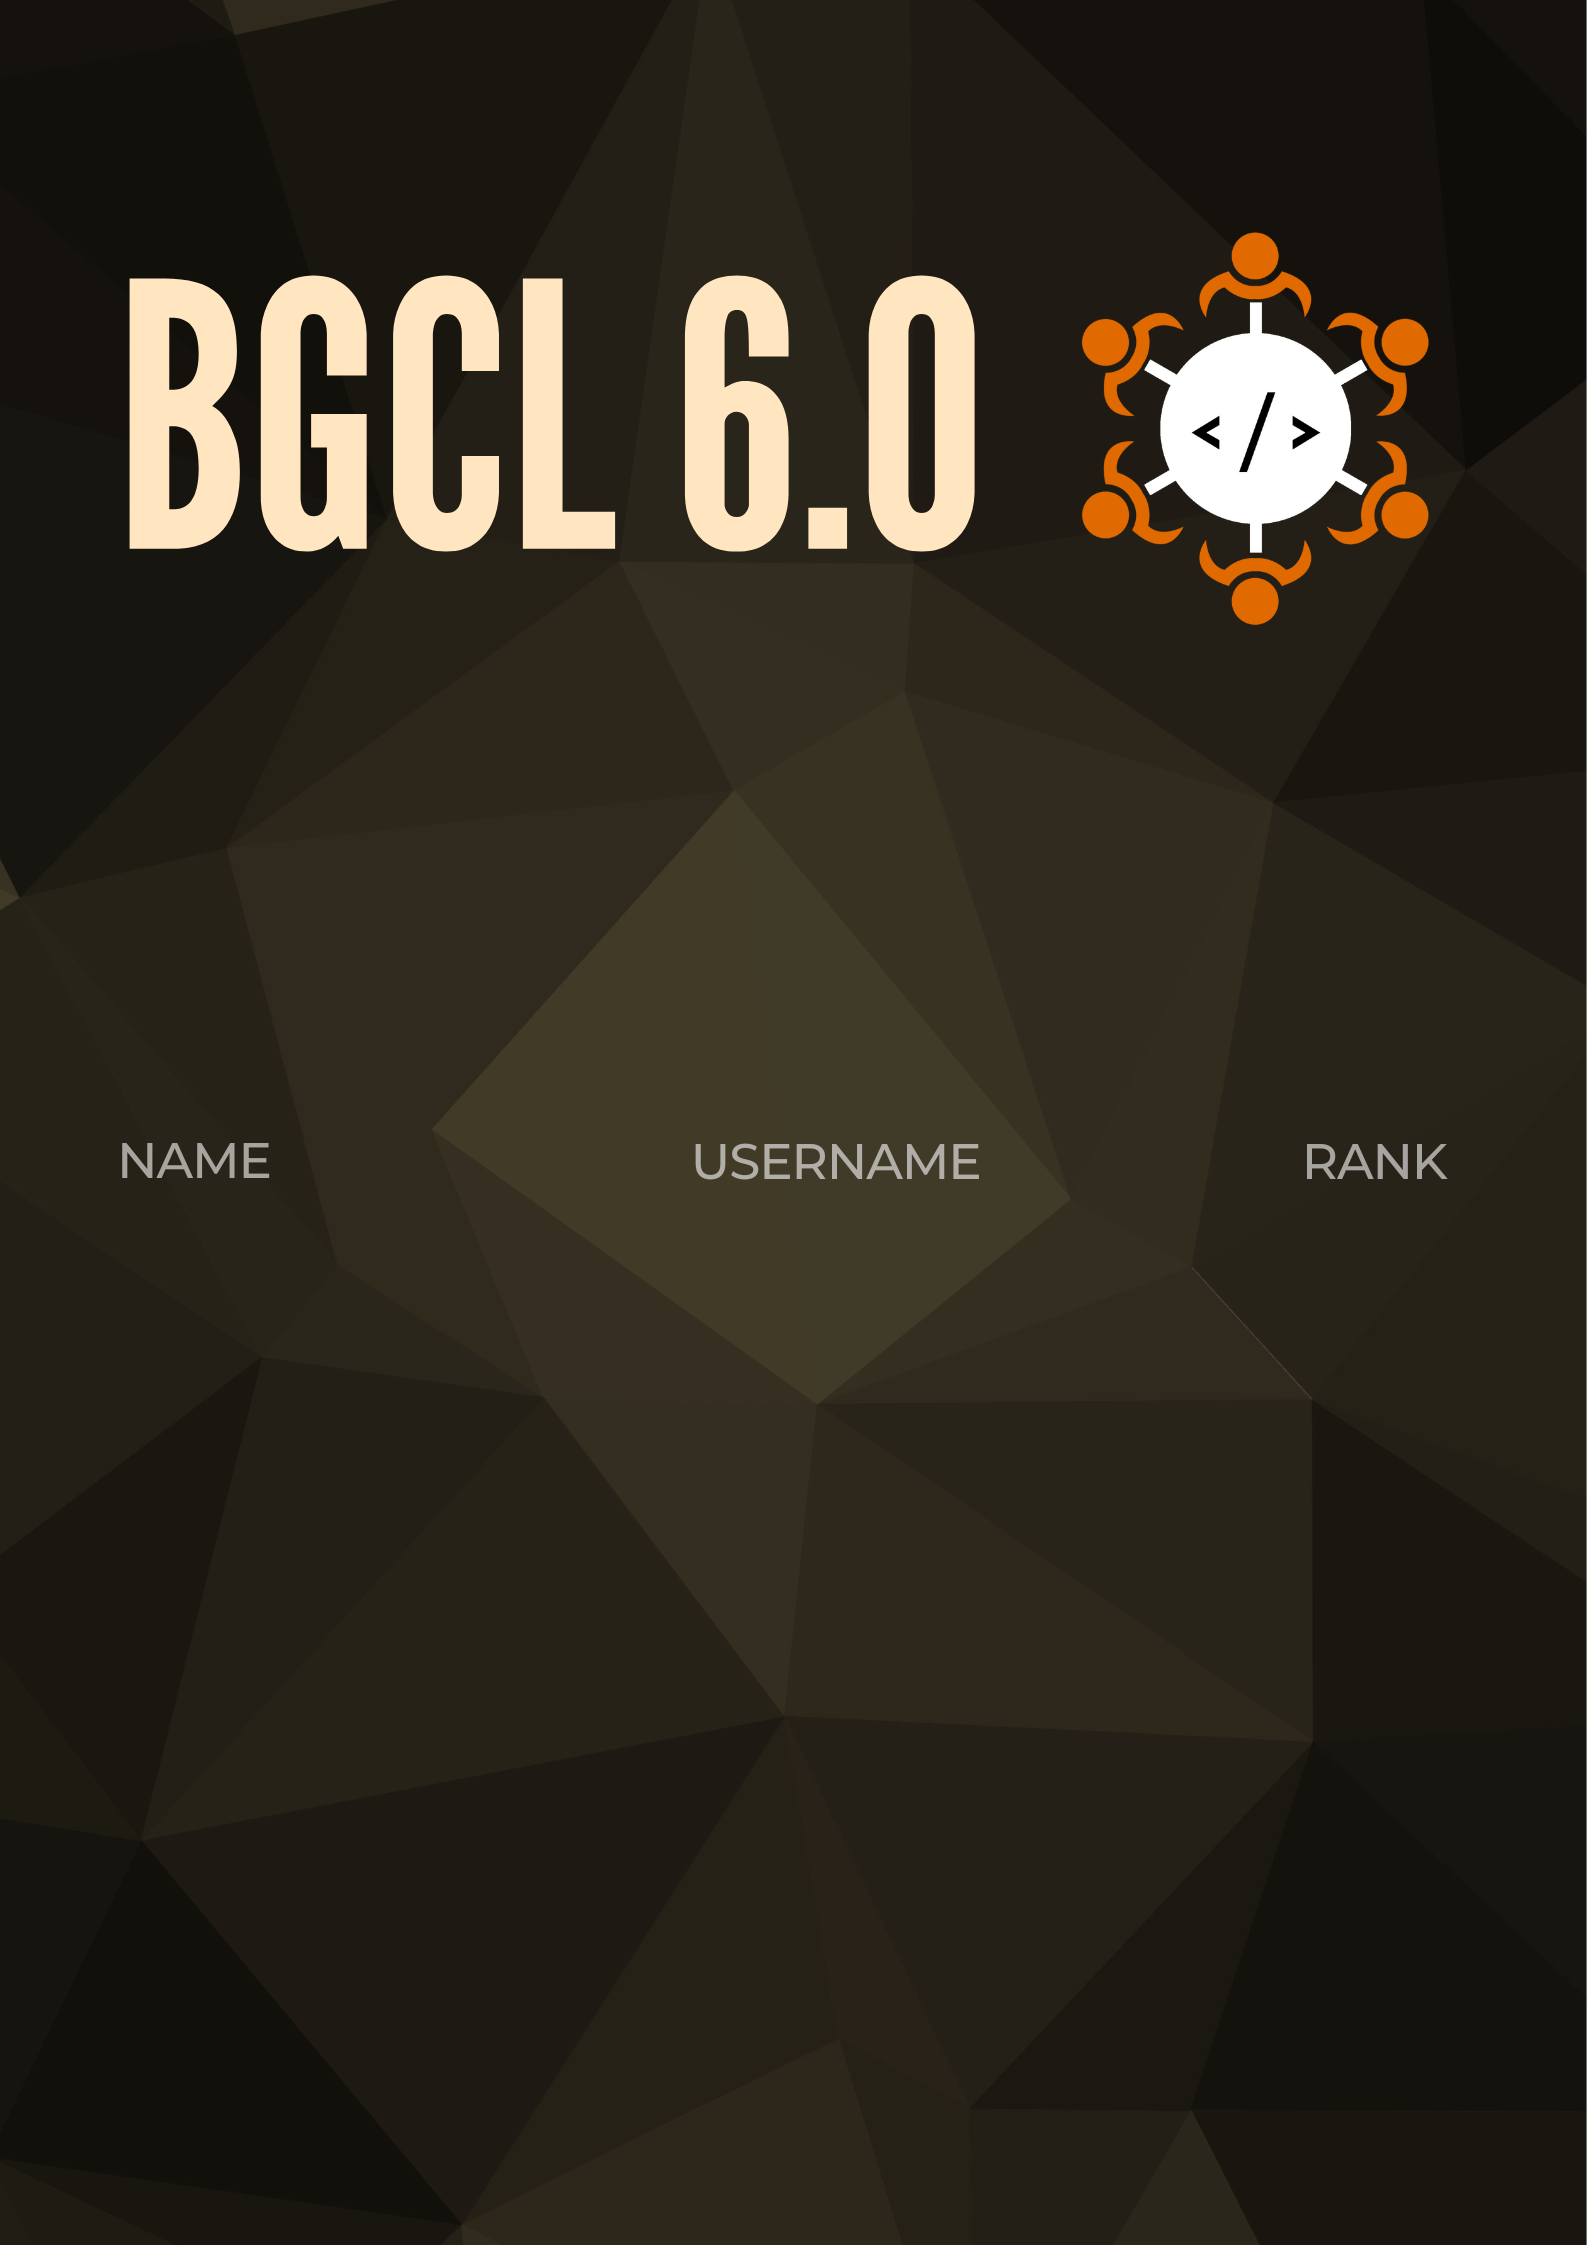
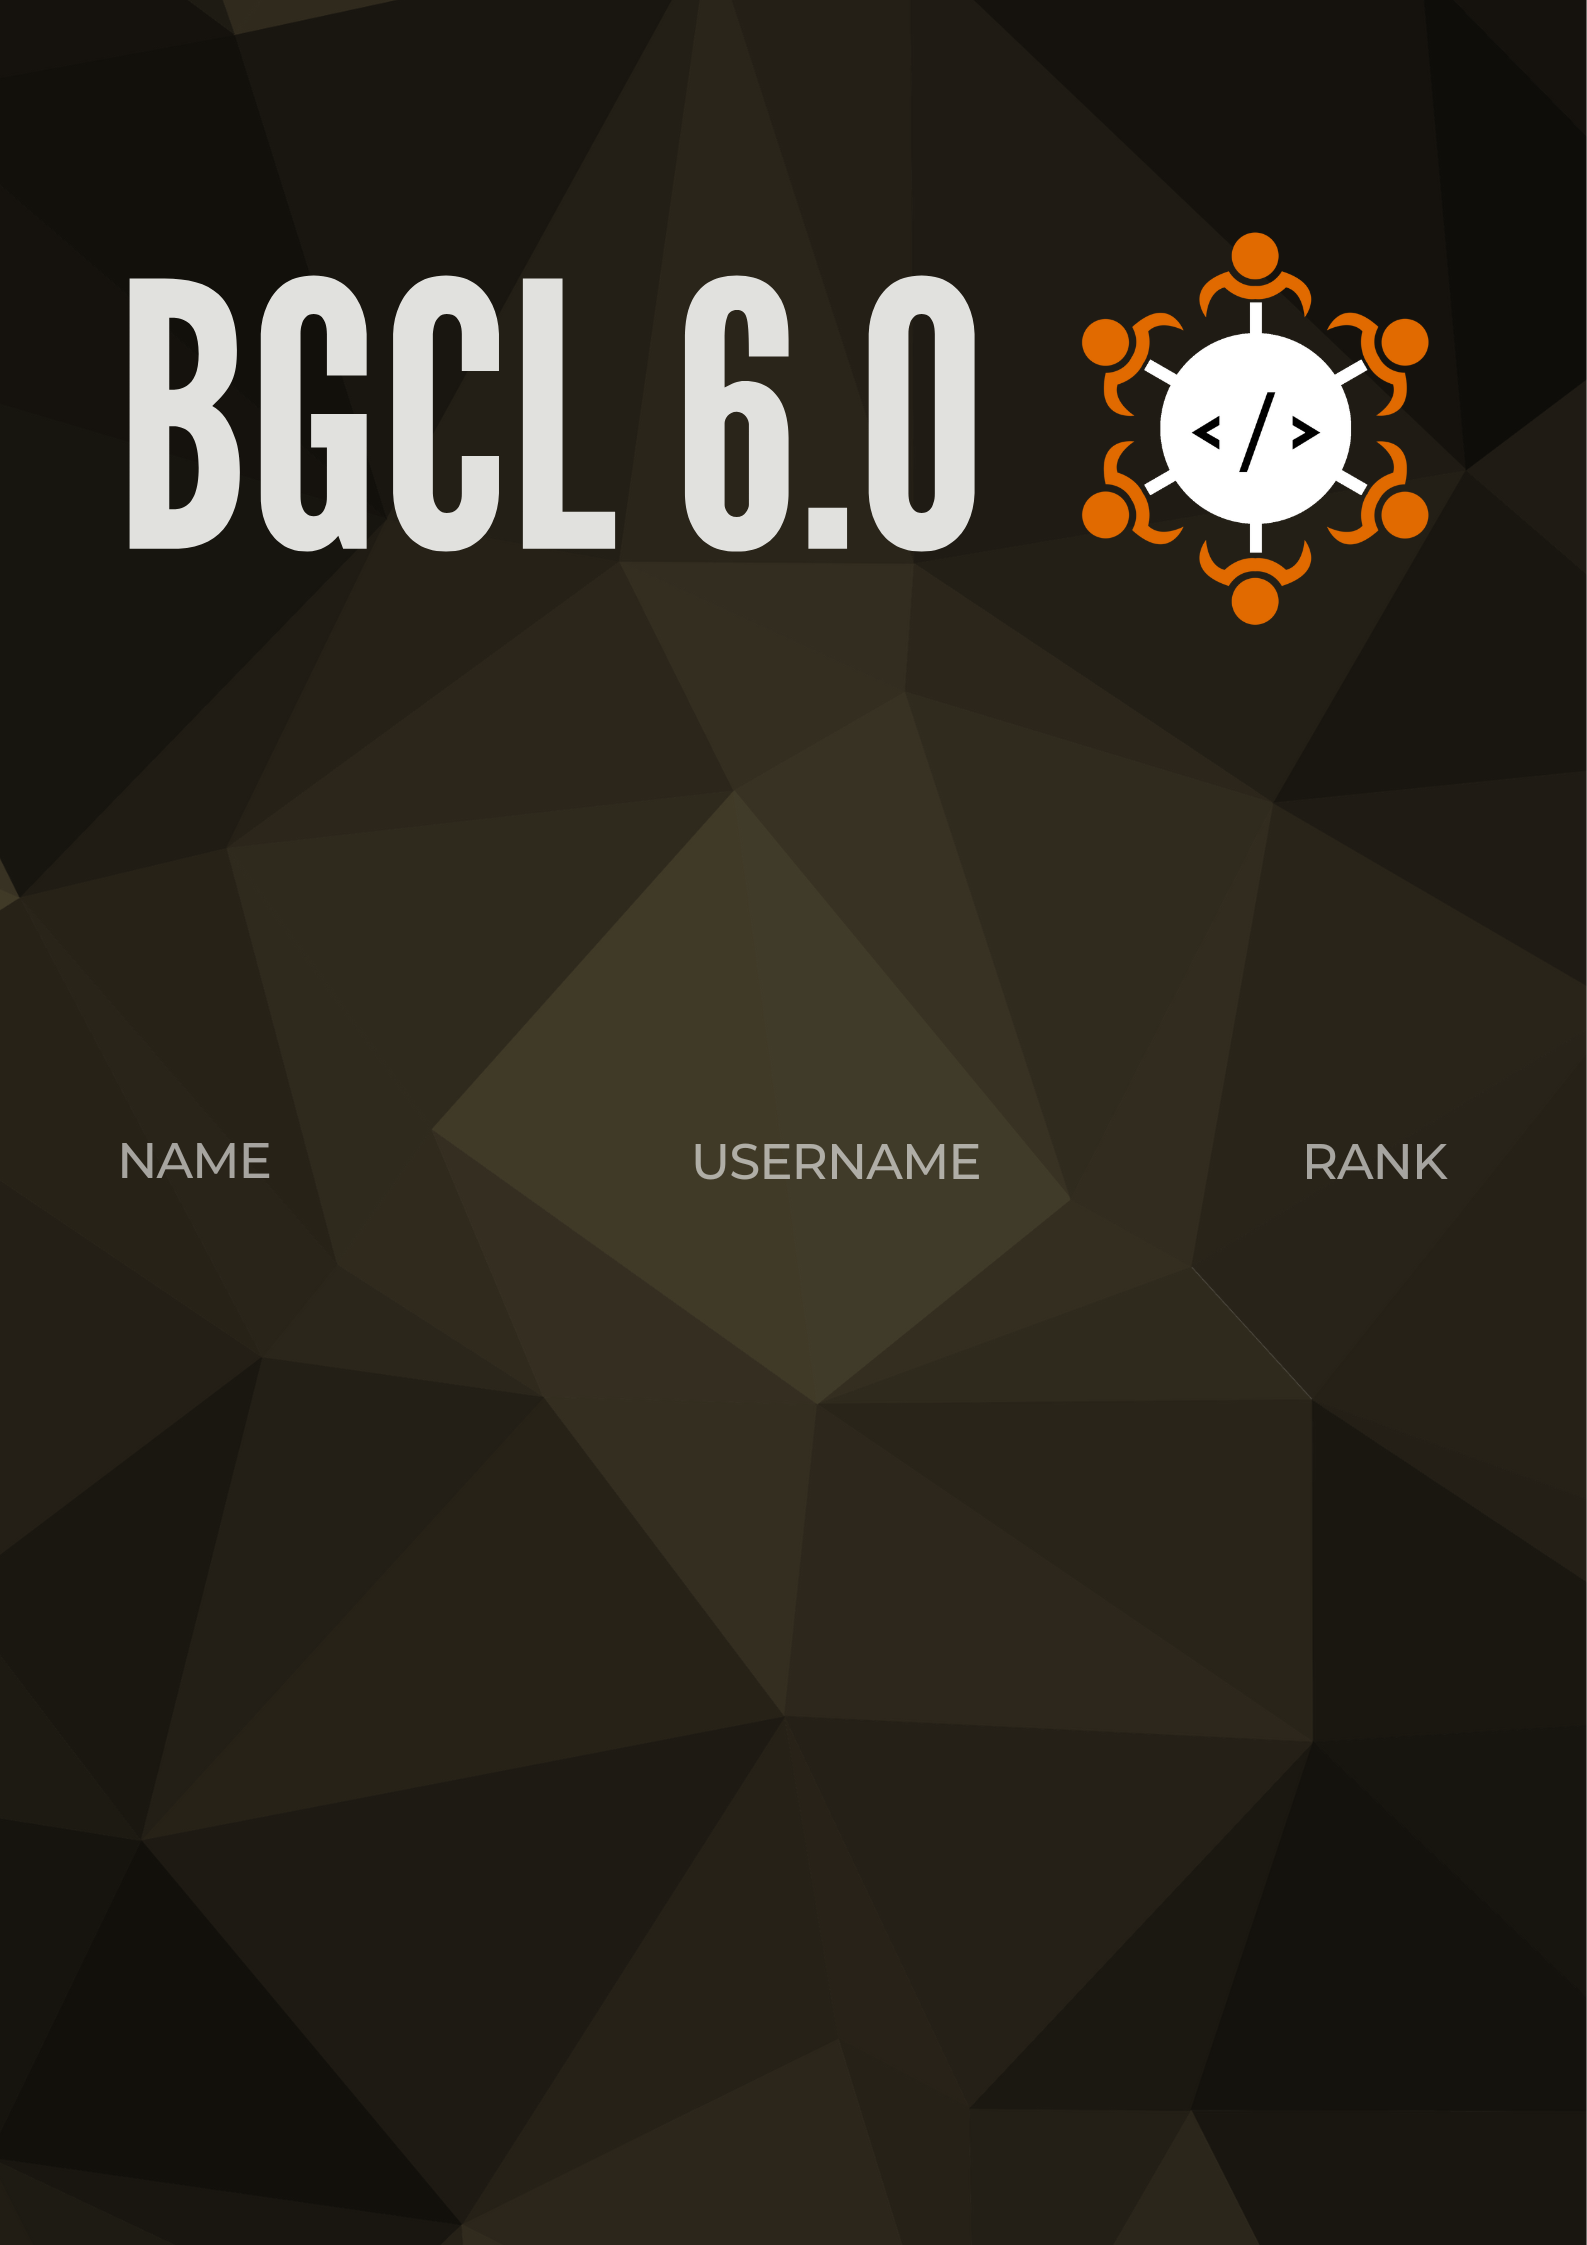
finally done

Changed region(s): [[0.0618, 0.1247, 0.4014, 0.2494], [0.4323, 0.1247, 0.6175, 0.2494]]

diff --git a/main.py b/main.py
@@ -4,12 +4,14 @@ import json
 import requests
 
 imageList = ["dark.png", "brown.png", "purple.png", "blue.png"]
-textColour = ["#dfdacb", "#ffe5c0", "#e4caf4", "#cbdcfd"]
+textColour = ["#e1e1de", "#ffe5c0", "#e4caf4", "#cbdcfd"]
 
 contestId = 2109
 regex = r"^(2023|2024|2022).{9}$"
 descText = "TOP 5 - Overall"
-imageSelected = 3
+imageSelected = 1
+overrideContestName = False
+overrideText = "CODEFORCES Div. 2 Round 1025"
 
 imageSelected %=4
 
@@ -34,6 +36,7 @@ req = requests.get(url)
 resp = req.json()
 
 contestName = resp["result"]["contest"]["name"] if resp["status"] == "OK" else "Unknown Contest"
+if (overrideContestName == True): contestName = overrideText
 
 # Map cfid to name for quick lookup
 cfid_to_name = {cfid: name for name, cfid in filtered_entries}
